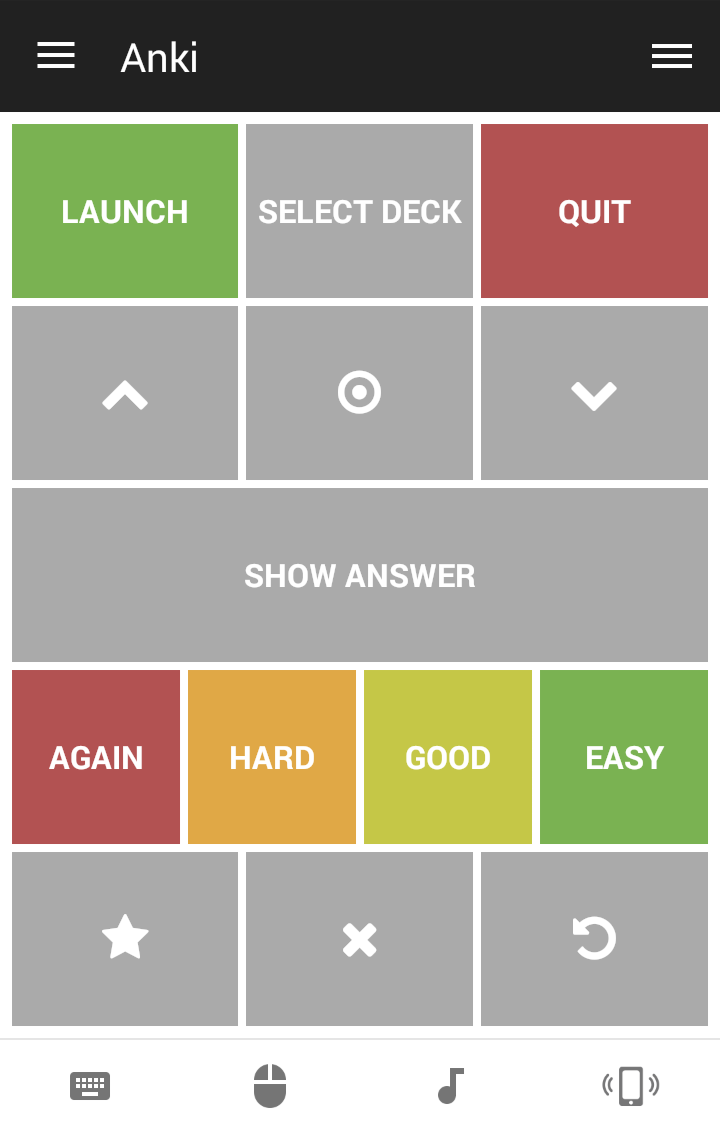
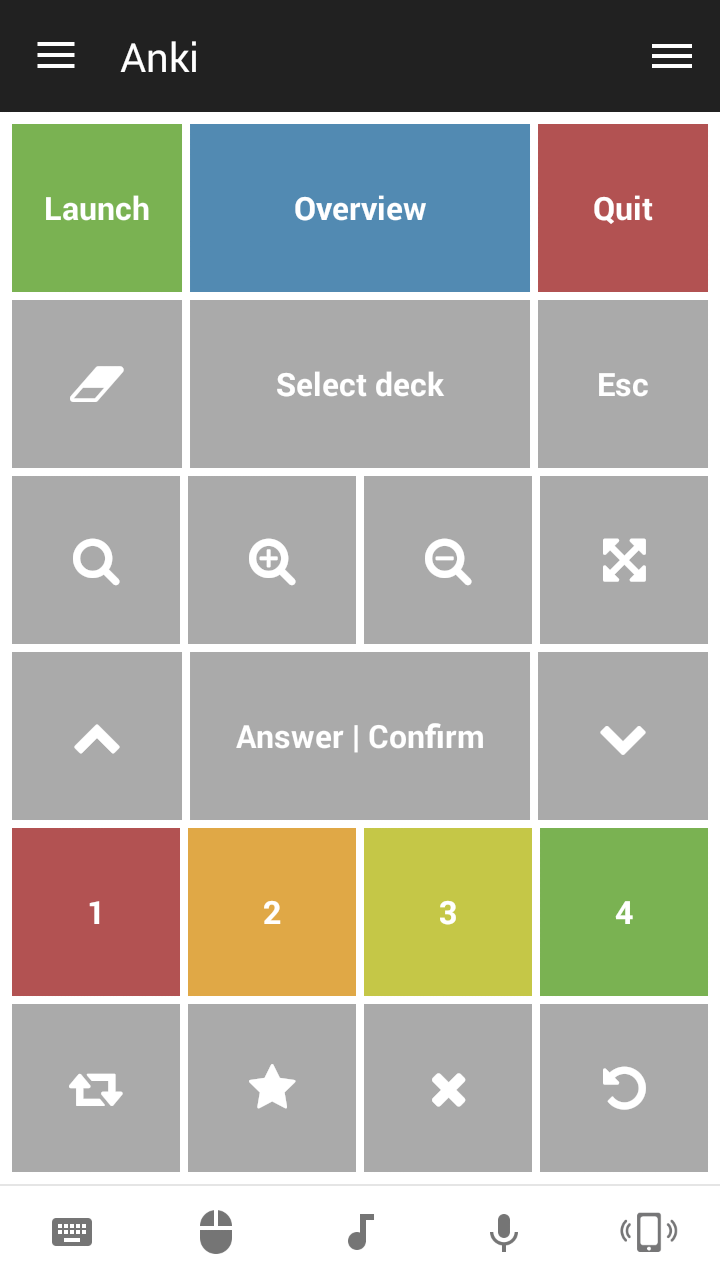
Update README and screenshot

diff --git a/README.md b/README.md
@@ -4,16 +4,41 @@ A simple [custom remote](https://www.unifiedremote.com/) for the spaced repetiti
 
 ## Features
 
+List of buttons, from top to bottom:
+
+*First row*
+
 * Launch Anki
-* Select deck to review
-* Quit Anki
+* Go to Deck Overview
+* Quit Anki (with confirmation dialog)
+
+*Second row*
+
+* Backspace
+* Select deck
+* Escape
+
+*Third row*
+
+The following features require the [Zoom](https://ankiweb.net/shared/info/1956318463) and [Toggle Full Screen](https://ankiweb.net/shared/info/1703043345) add-ons for Anki to be installed.
+
+* Reset zoom
+* Zoom in
+* Zoom out
+* Go fullscreen
+
+*Fourth row*
+
 * Move up
-* Select
+* Answer/Confirm selection
 * Move down
-* Zoom in/Original Zoom/Zoom out (requires [Anki Zoom add-on](https://ankiweb.net/shared/info/1956318463))
-* Fullscreen (requirues [Anki Full Screen F11 add-on](https://ankiweb.net/shared/info/3192665669))
-* Reveal answer
-* Apply ratings: Again/Hard/Good/Easy
+
+*Fifth row*
+
+* Apply rating: 1/2/3/4
+
+*Sixth row*
+
 * Repeat media playback
 * Mark card
 * Suspend note
@@ -26,7 +51,12 @@ A simple [custom remote](https://www.unifiedremote.com/) for the spaced repetiti
 ## Requirements
 
 * Anki 2.0.x
-* This custom remote has only been tested on Linux. Some features (e.g. launching Anki) might not work on other platforms
+* (optional) [Zoom](https://ankiweb.net/shared/info/1956318463) and [Toggle Full Screen](https://ankiweb.net/shared/info/1703043345) add-ons for Anki
+
+## Changelog
+
+* 2016-05-08: Added more buttons; Restructured remote; Remote now asks for confirmation before exiting
+* 2015-08-09: Initial release
 
 ## Todo
 
@@ -35,8 +65,8 @@ A simple [custom remote](https://www.unifiedremote.com/) for the spaced repetiti
 
 ## License
 
-*Copyright (c) 2015 Glutanimate*
+*Copyright (c) 2015-2016 Glutanimate*
 
 This project is licensed under the GNU GPLv3.
 
-The project's icon is based on '[Anki icon for Faenza](http://jesuisbenjamin.deviantart.com/art/Anki-icon-for-Faenza-202232311)' by [jesuisbenjamin](http://jesuisbenjamin.deviantart.com/); released under the [CC BY-NC-SA 3.0](https://creativecommons.org/licenses/by-nc-sa/3.0/) license.
+The icon is based on '[Anki icon for Faenza](http://jesuisbenjamin.deviantart.com/art/Anki-icon-for-Faenza-202232311)' by [jesuisbenjamin](http://jesuisbenjamin.deviantart.com/); released under the [CC BY-NC-SA 3.0](https://creativecommons.org/licenses/by-nc-sa/3.0/) license.
